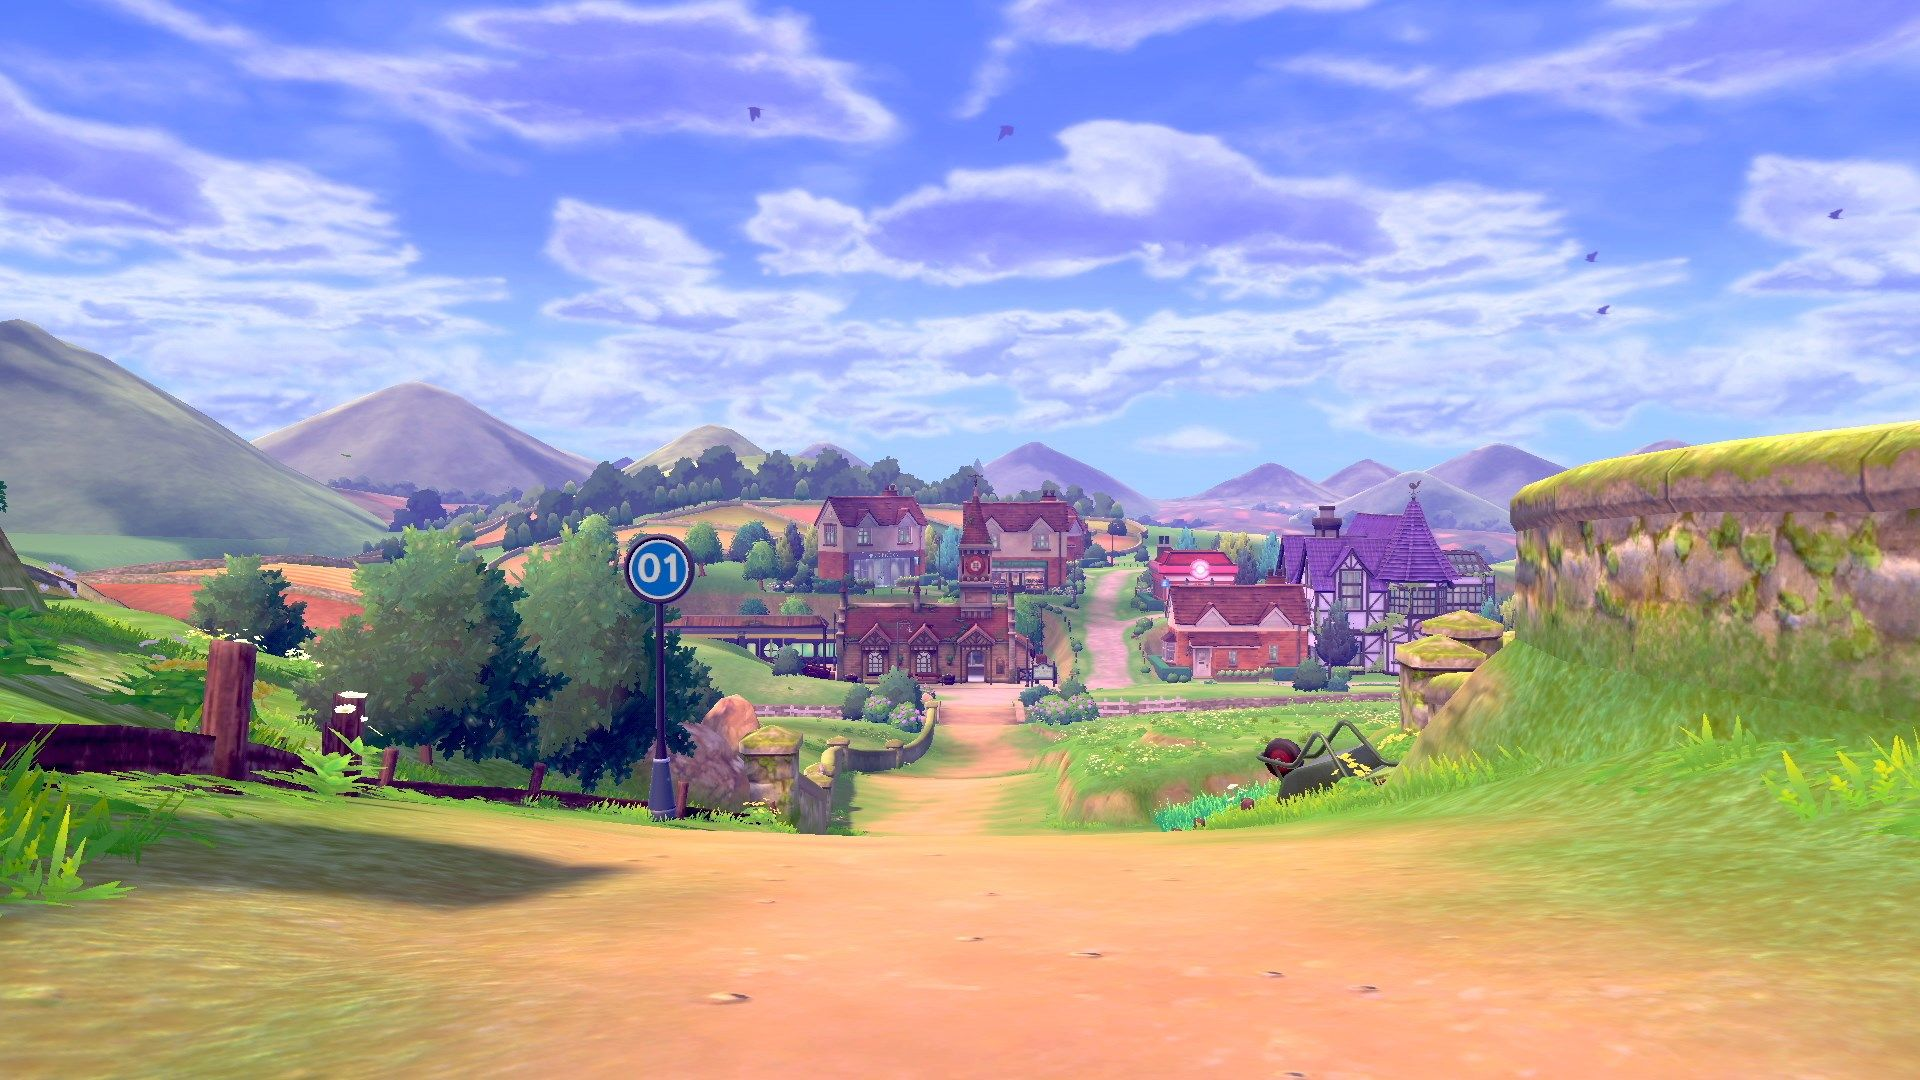
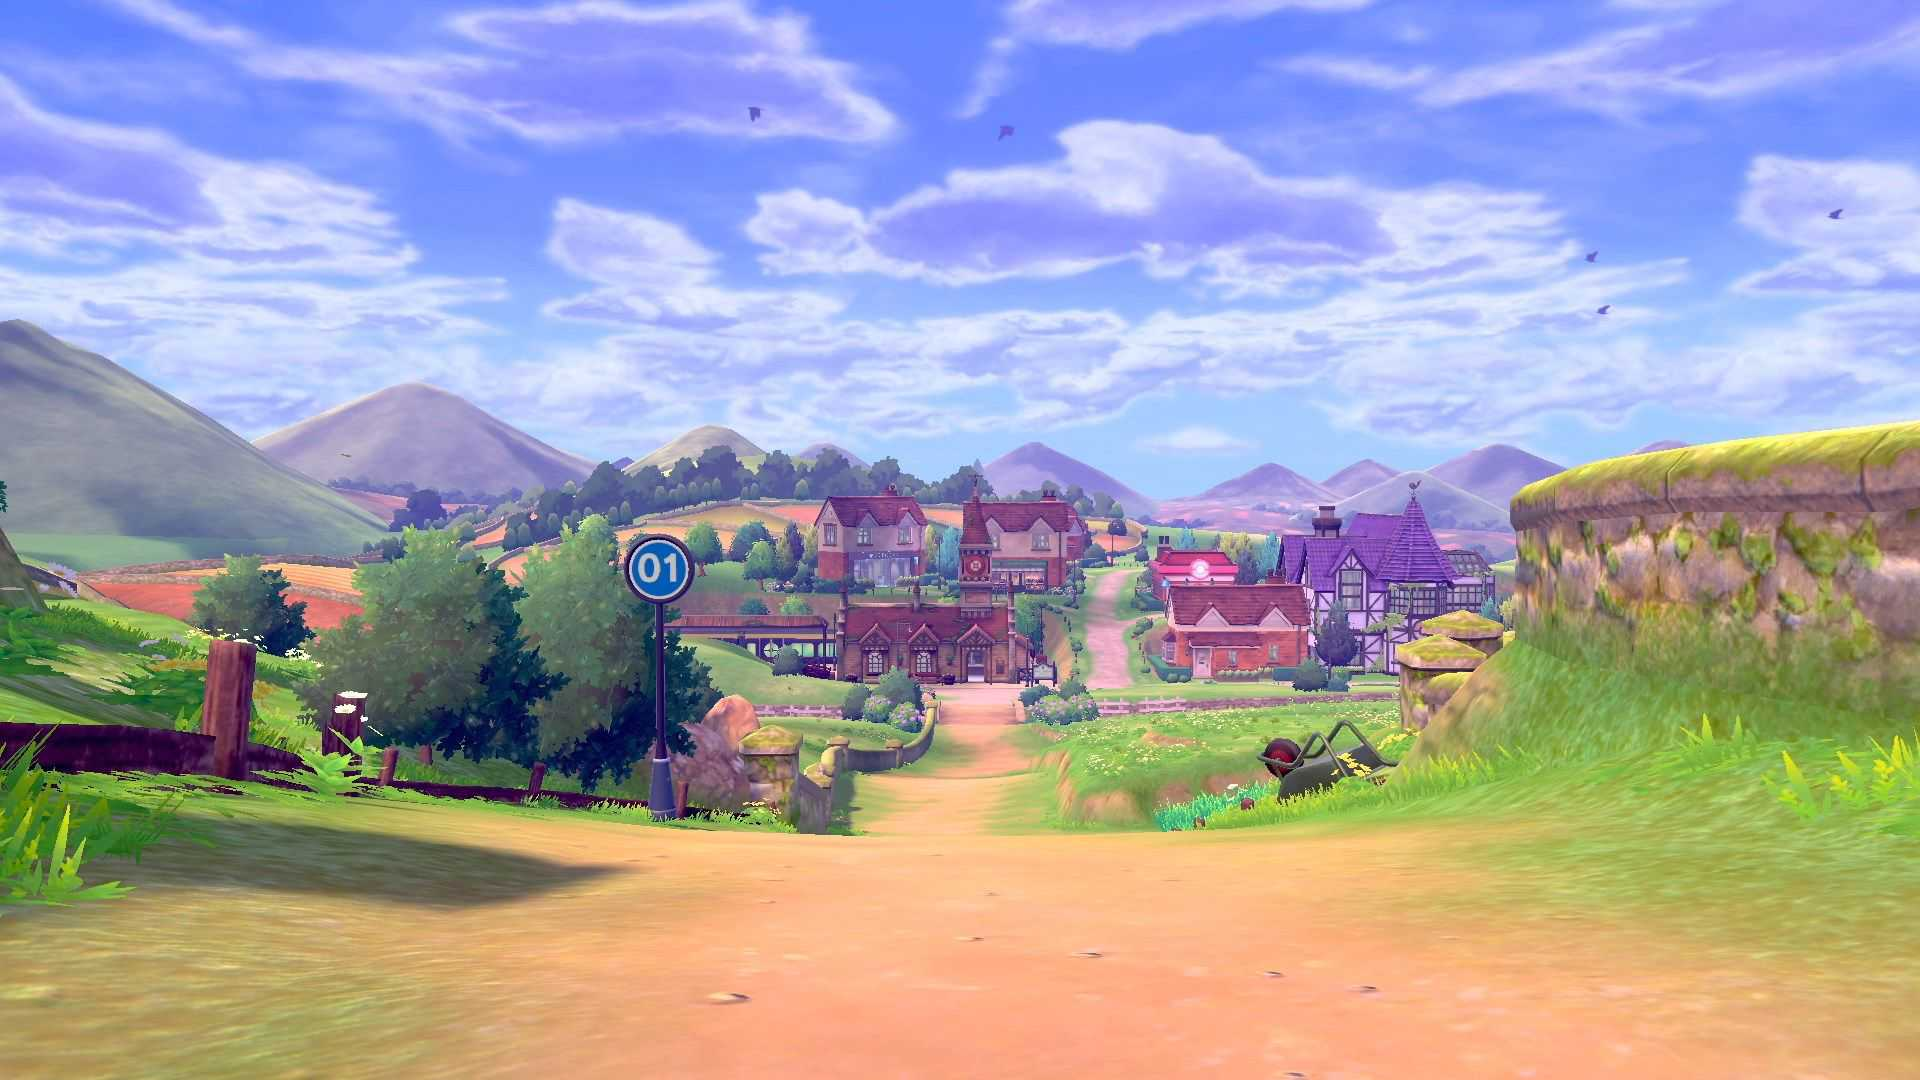
更换更小的图片

diff --git a/src/components/view/index.vue b/src/components/view/index.vue
@@ -7,7 +7,7 @@
                 <transition name="fade">
                     <div class="text" v-if="showSummary">
                         <p class="title">你好，我是Bran Lin。</p>
-                        <p class="descript">一个爱玩的前端工程师</p>
+                        <p class="descript">一个钻牛角尖的前端工程师</p>
                     </div>
                 </transition>
                 <transition name="fadebtn">
@@ -40,13 +40,12 @@
                 <transition name="fade">
                     <div v-if="showAbout">
                         <div class="avatar-box">
-                            <img src="../../assets/img/avatar.png" alt="">
+                            <img src="../../assets/img/avatar.jpg" alt="">
                         </div>
                         <div class="text-box">
                             <div class="text">
-                                我叫林泊伦，坐标广州，是一名Web前端工程师。2017年毕业，是一名在南方医科大学读信息工程的苦逼工科生（orz）。比较爱玩，喜欢研究新鲜技术，目前在前端的行业上努力学习中。
+                                我叫林泊伦，坐标广州，是一名Web前端工程师。2017年毕业，是一名在南方医科大学读信息工程的苦逼工科生（orz）。比较爱钻牛角尖，对一个像素的差别都要计较，目前在前端的行业上努力学习中。
                             </div>
-
                         </div>
                     </div>
                 </transition>

diff --git a/src/components/view/logo.vue b/src/components/view/logo.vue
@@ -48,9 +48,9 @@ export default {
         left: calc(50% - 15vh + 2px);
         height: 29vh;
         width: 15vh;
-        border-radius: 15vh 0 0 15vh;
+        border-radius: 29vh 0 0 29vh;
         background: #fff;
-        border: 5px solid #000;
+        border: 4px solid #000;
         /* 动画名称 */
         animation-name: white-move;
         /* 持续时间 */
@@ -61,7 +61,6 @@ export default {
         animation-direction: alternate-reverse;
         /* 动画循环次数  infinite无限 */
         animation-iteration-count: infinite;
-        box-shadow: 0px -20px 10px #ddd inset;
         z-index: 30;
     }
     .ball-red{
@@ -70,9 +69,9 @@ export default {
         right: calc(50% - 15vh + 2px);
         height: 29vh;
         width: 15vh;
-        border-radius: 0 15vh 15vh 0;
+        border-radius: 0 29vh 29vh 0;
         background: #ED4A35;
-        border: 5px solid #000;
+        border: 4px solid #000;
         /* 动画名称 */
         animation-name: red-move;
         /* 持续时间 */
@@ -83,7 +82,6 @@ export default {
         animation-direction: alternate-reverse;
         /* 动画循环次数  infinite无限 */
         animation-iteration-count: infinite;
-        box-shadow: 0px -20px 10px #af392a inset;
         z-index: 30;
     }
     .ball-button{
@@ -121,7 +119,6 @@ export default {
             top: 0;
             background: #FDE990;
             border-radius: 50%;
-            box-shadow: 0px -5px 10px #dacc8c inset;
             border: 1px solid #000;
             overflow: hidden;
             z-index: 8;

diff --git a/vue.config.js b/vue.config.js
@@ -1,0 +1,3 @@
+module.exports = {
+    publicPath: '/MyPage/'
+}
